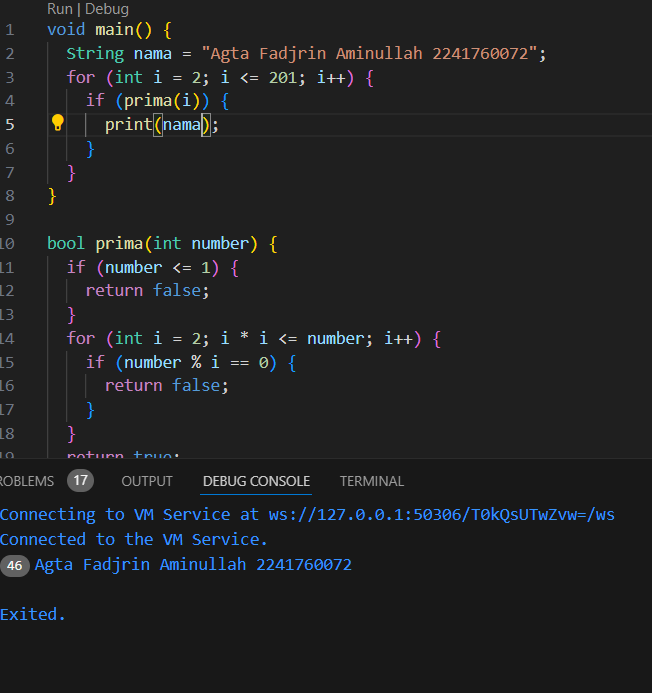
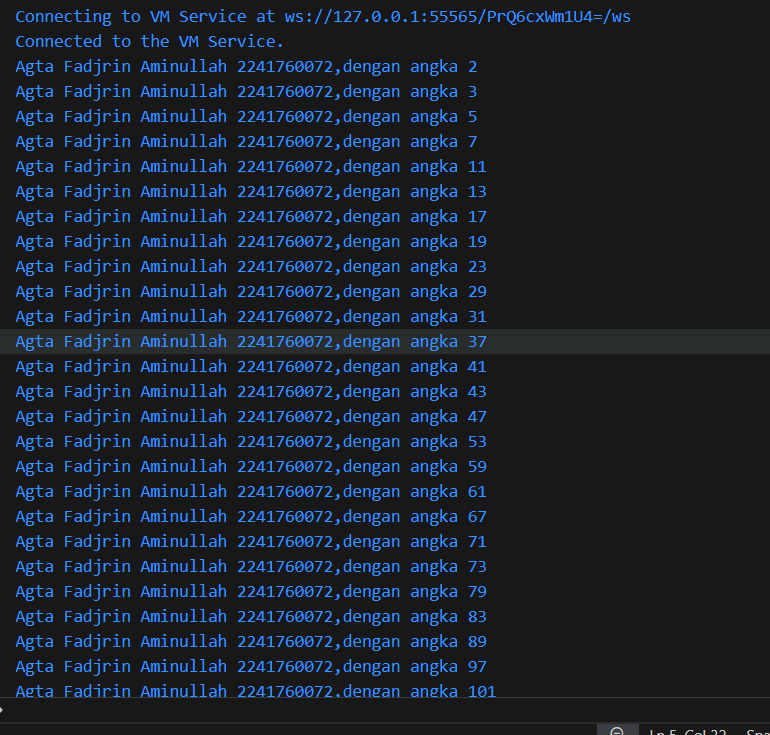
Pengerjaan Jobsheet 3

Changed region(s): [[0.0, 0.0, 0.9509, 0.9697], [0.7669, 0.9697, 0.8282, 1.0], [0.8896, 0.9697, 0.9202, 1.0]]

diff --git a/Pertemuan3/dart_jobsheet_3/bin/dart_jobsheet_3_2.dart b/Pertemuan3/dart_jobsheet_3/bin/dart_jobsheet_3_2.dart
@@ -1,11 +1,13 @@
 void main() {
-    var counter = 30;
+    int counter = 30;
     while (counter < 33) {
         print(counter);
         counter++;
     }
+
+    int counter1 = 34;
     do {
-        print(counter);
-        counter++;
-    } while (counter < 77);
+        print(counter1);
+        counter1++;
+    } while (counter1 < 77);
 }

diff --git a/Pertemuan3/dart_jobsheet_3/bin/tugas_praktikum_prima.dart b/Pertemuan3/dart_jobsheet_3/bin/tugas_praktikum_prima.dart
@@ -2,7 +2,7 @@ void main() {
   String nama = "Agta Fadjrin Aminullah 2241760072";
   for (int i = 2; i <= 201; i++) {
     if (prima(i)) {
-      print(nama);
+      print("$nama,dengan angka $i");
     }
   }
 }

diff --git a/Pertemuan3/Jobsheet3.md b/Pertemuan3/Jobsheet3.md
@@ -28,7 +28,7 @@ Tambahkan kode program berikut, lalu coba eksekusi (Run) kode Anda.
 
 Apa yang terjadi ? Jika terjadi error, silakan perbaiki namun tetap menggunakan if/else.
 
-= Terjadinya inkonsistensi huruf, langkah yang saya ambil adalah memperbaiki permasalahn huruf kapital, pendeklarasian dari variable, lalu saya menambahkan else dari program karena ditakutkan ada sesuatu yang keluar dari rule yang mengharuskan penggunaan else.
+= Terjadinya inkonsistensi huruf, langkah yang saya ambil adalah memperbaiki permasalahan huruf kapital, inisiasi dari variable, lalu saya menambahkan else dari program karena ditakutkan ada sesuatu yang keluar dari rule yang mengharuskan penggunaan else, lalu tidak adanya suatu yang bisa dibandingkan kebenaran dari nilainya.
 
 ## Praktikum 2: Menerapkan Perulangan "while" dan "do-while"
 
@@ -43,7 +43,7 @@ Ketik atau salin kode program berikut ke dalam fungsi main().
 
 Silakan coba eksekusi (Run) kode pada langkah 1 tersebut. Apa yang terjadi? Jelaskan! Lalu perbaiki jika terjadi error.
 
-= Tidak adanya pendeklarasian suatu variable, maka dari itu saya mendeklarasikan variable tersebut (perbaikan terjadi sekaligus di langkah berikutnya).
+= Tidak adanya inisiasi suatu variable, maka dari itu saya menginisiasi variable tersebut (perbaikan terjadi sekaligus di langkah berikutnya).
 
 #### Langkah 3:
 
@@ -56,7 +56,7 @@ Tambahkan kode program berikut, lalu coba eksekusi (Run) kode Anda.
 
 Apa yang terjadi ? Jika terjadi error, silakan perbaiki namun tetap menggunakan do-while.
 
-= Sama seperti penjelasan sebelumnya, yaitu tidak adanya pendeklarasian suatu variable.
+= Sama seperti penjelasan sebelumnya, yaitu tidak adanya inisiasi suatu variable.
 
 ## Praktikum 3: Menerapkan Perulangan "for" dan "break-continue"
 
@@ -81,15 +81,11 @@ Langkah 3:
 
 Apa yang terjadi ? Jika terjadi error, silakan perbaiki namun tetap menggunakan for dan break-continue.
 
-= Error, karena tidak adanya pendeklarasian variable yang bernama index, Penggunaan huruf if maupun else if yang salah seharusnya menggunakan huruf kecil bukan kapital, perbaikan code sudah saya lakukan di langkah ini.
+= Error, karena tidak adanya pendeklarasian variable yang bernama index, Penggunaan huruf if maupun else if yang salah seharusnya menggunakan huruf kecil bukan kapital, lalu pemberian operator atau increment decrement tidak ada sebelumnya, perbaikan code sudah saya lakukan di langkah ini.
 
 ## Tugas Praktikum
 
 Buatlah sebuah program yang dapat menampilkan bilangan prima dari angka 0 sampai 201 menggunakan Dart. Ketika bilangan prima ditemukan, maka tampilkan nama lengkap dan NIM Anda.
 
-<img src ="img/P1.png">
-<img src ="img/P2.png">
-= Pada gambar ini saya membuktikan bahwa code saya sudah menjalankan bilangan prima dengan baik yang dimulai dari 2 hingga 201
-
 <img src ="img/P3.png">
-= Pada gambar ini, mencetak nama saya sesuai dengan bilangan prima yaitu "Agta Fadjrin Aminullah 2241760072"
+= Pada gambar ini, mencetak nama saya sesuai dengan bilangan prima yaitu "Agta Fadjrin Aminullah 2241760072" ditambah dengan kalimat "dengan angka" agar dapat membuktikan bahwa hasil dari code tersbut juga bilangan prima.
